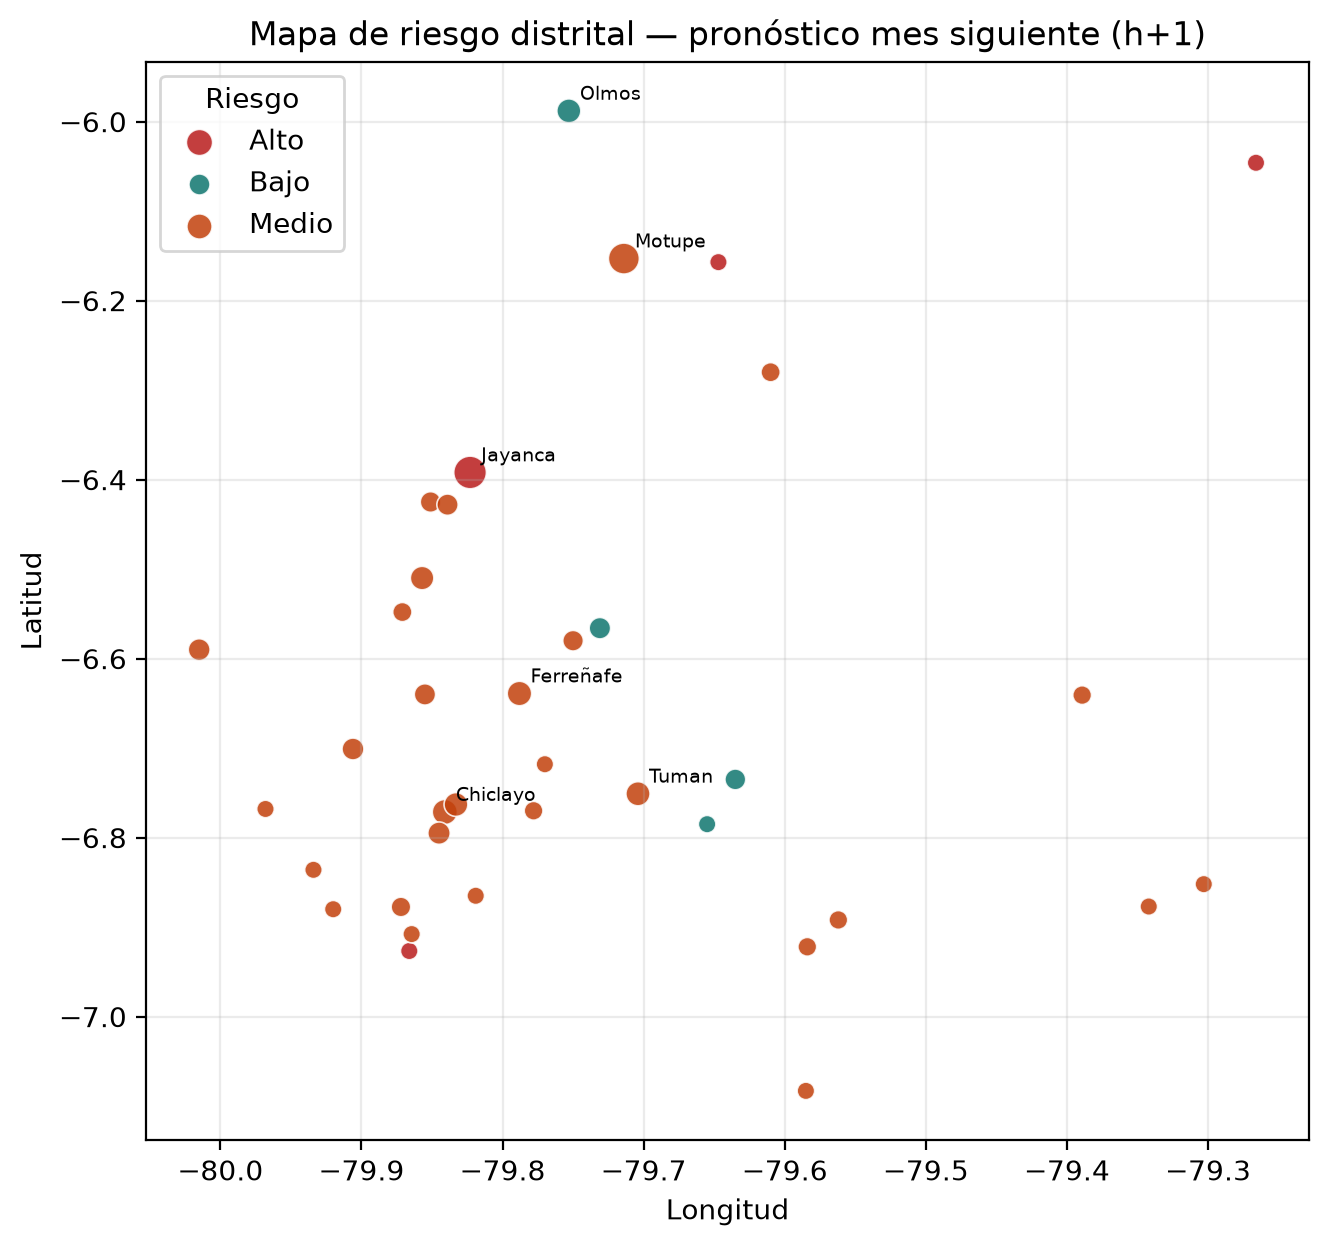
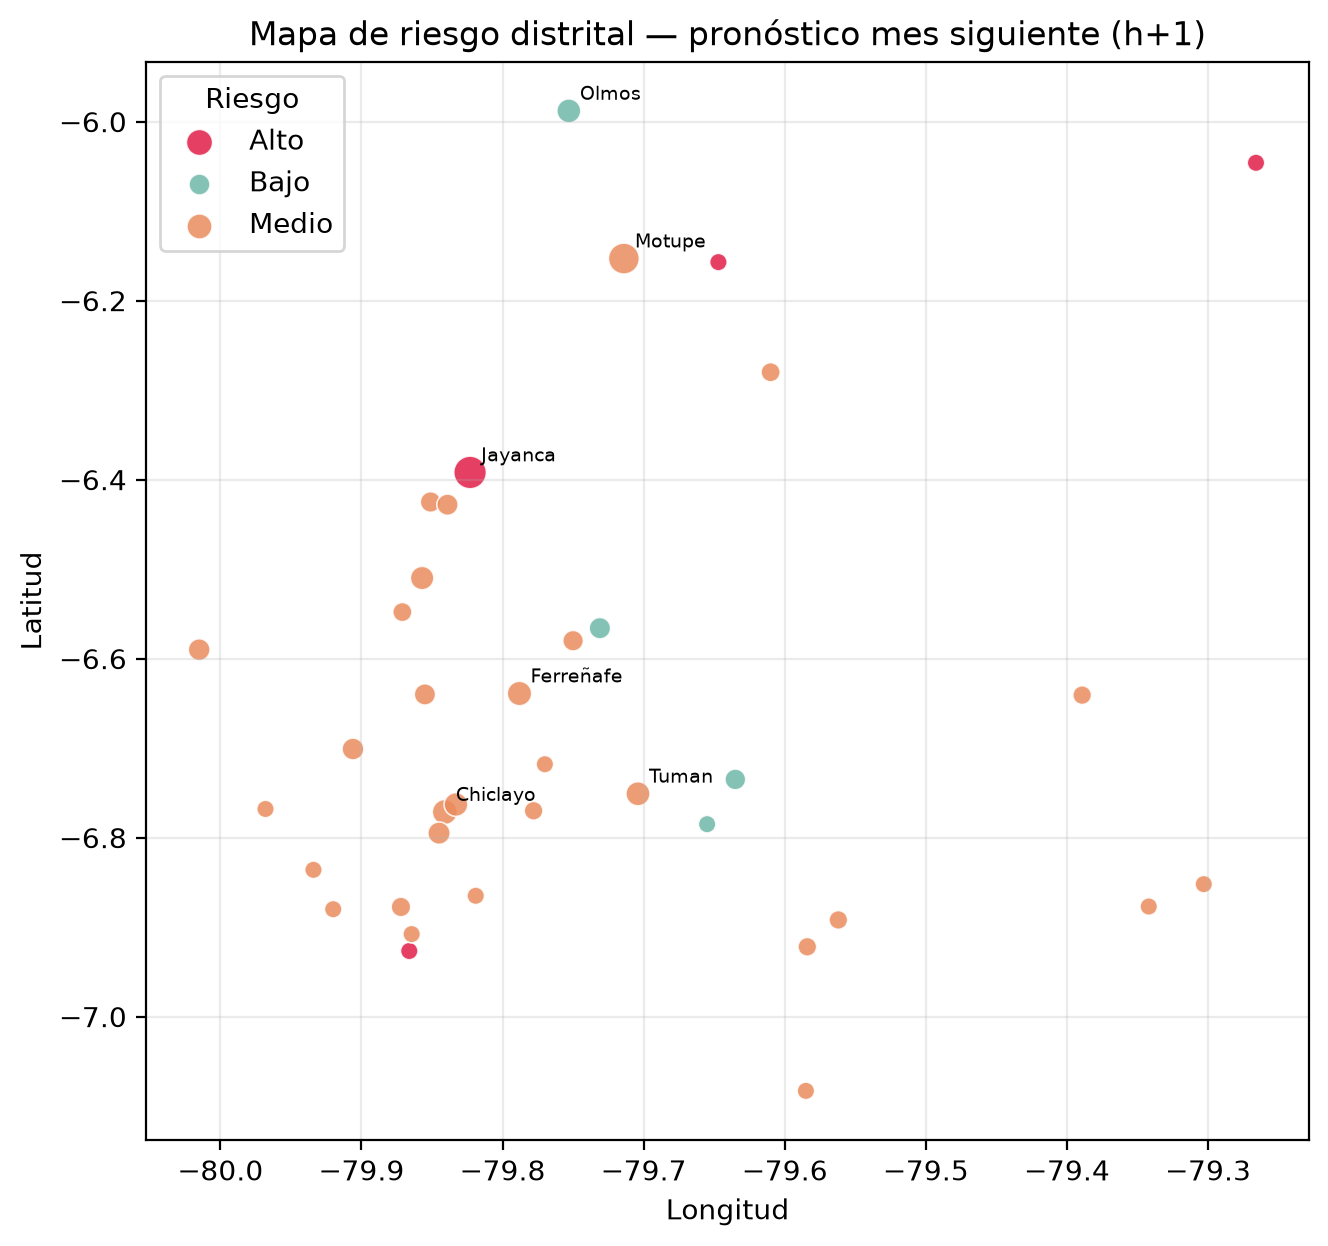
Create images

diff --git a/experiments/export_report_figures.py b/experiments/export_report_figures.py
@@ -1,0 +1,189 @@
+# -*- coding: utf-8 -*-
+"""Export figures for the research Word document from dashboard.json.
+
+Does not retrain the model — only reads web/data/dashboard.json.
+"""
+from __future__ import annotations
+
+import json
+import re
+from pathlib import Path
+
+import matplotlib.pyplot as plt
+import numpy as np
+import pandas as pd
+
+BASE = Path(__file__).resolve().parents[1]
+JSON = BASE / "web" / "data" / "dashboard.json"
+OUT = BASE / "outputs" / "figuras_informe"
+OUT.mkdir(parents=True, exist_ok=True)
+
+plt.rcParams.update({
+    "font.family": "DejaVu Sans",
+    "axes.titlesize": 12,
+    "axes.labelsize": 10,
+    "figure.dpi": 150,
+    "savefig.dpi": 200,
+    "savefig.bbox": "tight",
+})
+
+
+def nice_title(s: str) -> str:
+    """Spanish-friendly title case (avoids FerreñAfe from str.title())."""
+    s = str(s or "").casefold()
+    return re.sub(r"(^|[\s\-'])(\S)", lambda m: m.group(1) + m.group(2).upper(), s)
+
+
+def load() -> dict:
+    return json.loads(JSON.read_text(encoding="utf-8"))
+
+
+def fig1_departamento(data: dict) -> Path:
+    dep = pd.DataFrame(data["departamento_2024"])
+    fig, ax = plt.subplots(figsize=(8.5, 4.2))
+    ax.plot(dep["mes"], dep["real"], marker="o", label="Real 2024", color="#1f2937")
+    ax.plot(dep["mes"], dep["predicho"], marker="s", label="Predicho 2024", color="#0f766e")
+    ax.set_xlabel("Mes")
+    ax.set_ylabel("Casos mensuales")
+    ax.set_title("Lambayeque 2024: casos reales vs predichos (suma de distritos)")
+    ax.set_xticks(range(1, 13))
+    ax.grid(True, alpha=0.3)
+    ax.legend()
+    path = OUT / "fig1_departamento_real_vs_pred_2024.png"
+    fig.savefig(path)
+    plt.close(fig)
+    print("OK", path.name)
+    return path
+
+
+def fig2_top_distritos(data: dict, n: int = 6) -> Path:
+    resumen = pd.DataFrame(data["resumen_distritos_2024"]).head(n)
+    back = pd.DataFrame(data["backtest_distritos"])
+    fig, axes = plt.subplots(2, 3, figsize=(11, 6.5), sharex=True)
+    for ax, row in zip(axes.ravel(), resumen.itertuples(index=False)):
+        sub = back[back["ubigeo"] == row.ubigeo].sort_values("mes")
+        ax.plot(sub["mes"], sub["casos"], marker="o", ms=4, label="Real", color="#1f2937")
+        ax.plot(sub["mes"], sub["predicho"], marker="s", ms=4, label="Predicho", color="#0f766e")
+        ax.set_title(nice_title(row.distrito), fontsize=10)
+        ax.grid(True, alpha=0.25)
+        ax.set_xticks(range(1, 13, 2))
+    axes[0, 0].legend(fontsize=8)
+    fig.suptitle("Backtest 2024 en los distritos con más casos", y=1.01)
+    fig.supxlabel("Mes")
+    fig.supylabel("Casos")
+    path = OUT / "fig2_top6_distritos_2024.png"
+    fig.tight_layout()
+    fig.savefig(path)
+    plt.close(fig)
+    print("OK", path.name)
+    return path
+
+
+def fig3_barras_error(data: dict, n: int = 10) -> Path:
+    df = pd.DataFrame(data["resumen_distritos_2024"]).head(n).copy()
+    df["distrito"] = df["distrito"].map(nice_title)
+    df = df.sort_values("casos_real")
+    fig, ax = plt.subplots(figsize=(8.5, 5))
+    y = np.arange(len(df))
+    ax.barh(y - 0.2, df["casos_real"], height=0.4, label="Casos reales 2024", color="#334155")
+    ax.barh(y + 0.2, df["casos_pred"], height=0.4, label="Suma predicha 2024", color="#0f766e")
+    ax.set_yticks(y)
+    ax.set_yticklabels(df["distrito"])
+    ax.set_xlabel("Casos anuales (2024)")
+    ax.set_title("Comparación anual real vs predicha — principales distritos")
+    ax.legend()
+    ax.grid(True, axis="x", alpha=0.3)
+    path = OUT / "fig3_barras_distritos_anual_2024.png"
+    fig.savefig(path)
+    plt.close(fig)
+    print("OK", path.name)
+    return path
+
+
+def fig4_mae_distritos(data: dict, n: int = 12) -> Path:
+    df = pd.DataFrame(data["resumen_distritos_2024"]).head(n).copy()
+    df["distrito"] = df["distrito"].map(nice_title)
+    df = df.sort_values("mae")
+    fig, ax = plt.subplots(figsize=(8.5, 5))
+    ax.barh(df["distrito"], df["mae"], color="#b45309")
+    ax.set_xlabel("MAE mensual 2024 (casos)")
+    ax.set_title("Error absoluto medio por distrito (principales por carga)")
+    ax.grid(True, axis="x", alpha=0.3)
+    path = OUT / "fig4_mae_por_distrito.png"
+    fig.savefig(path)
+    plt.close(fig)
+    print("OK", path.name)
+    return path
+
+
+def fig5_mapa_scatter(data: dict) -> Path:
+    m = pd.DataFrame(data["mapa_pronostico_h1"])
+    colors = {"alto": "#e11d48", "medio": "#ea8c5d", "bajo": "#6fb8a8"}
+    fig, ax = plt.subplots(figsize=(7.5, 7))
+    for riesgo, g in m.groupby("riesgo"):
+        sizes = 40 + np.sqrt(g["predicho"].clip(lower=0)) * 18
+        ax.scatter(
+            g["lon"],
+            g["lat"],
+            s=sizes,
+            c=colors.get(riesgo, "#666"),
+            label=str(riesgo).capitalize(),
+            alpha=0.85,
+            edgecolors="white",
+            linewidths=0.6,
+        )
+    top = m.nlargest(6, "predicho")
+    for r in top.itertuples(index=False):
+        ax.annotate(
+            nice_title(r.distrito),
+            (r.lon, r.lat),
+            textcoords="offset points",
+            xytext=(4, 4),
+            fontsize=7,
+        )
+    ax.set_xlabel("Longitud")
+    ax.set_ylabel("Latitud")
+    ax.set_title("Mapa de riesgo distrital — pronóstico mes siguiente (h+1)")
+    ax.legend(title="Riesgo")
+    ax.grid(True, alpha=0.25)
+    path = OUT / "fig5_mapa_riesgo_h1.png"
+    fig.savefig(path)
+    plt.close(fig)
+    print("OK", path.name)
+    return path
+
+
+def fig6_ranking(data: dict, n: int = 10) -> Path:
+    df = pd.DataFrame(data["ranking_accion"]).head(n).copy()
+    df["distrito"] = df["distrito"].map(nice_title)
+    df = df.sort_values("pred_promedio")
+    colors = df["riesgo"].map({"alto": "#e11d48", "medio": "#ea8c5d", "bajo": "#6fb8a8"})
+    fig, ax = plt.subplots(figsize=(8.5, 5))
+    ax.barh(df["distrito"], df["pred_promedio"], color=colors)
+    ax.set_xlabel("Predicción promedio (horizonte 3 meses)")
+    ax.set_title("Ranking de prioridad distrital (panel operativo)")
+    ax.grid(True, axis="x", alpha=0.3)
+    path = OUT / "fig6_ranking_prioridad.png"
+    fig.savefig(path)
+    plt.close(fig)
+    print("OK", path.name)
+    return path
+
+
+def main() -> None:
+    data = load()
+    paths = [
+        fig1_departamento(data),
+        fig2_top_distritos(data),
+        fig3_barras_error(data),
+        fig4_mae_distritos(data),
+        fig5_mapa_scatter(data),
+        fig6_ranking(data),
+    ]
+    print("Carpeta:", OUT)
+    for p in paths:
+        print(p.resolve())
+
+
+if __name__ == "__main__":
+    main()
